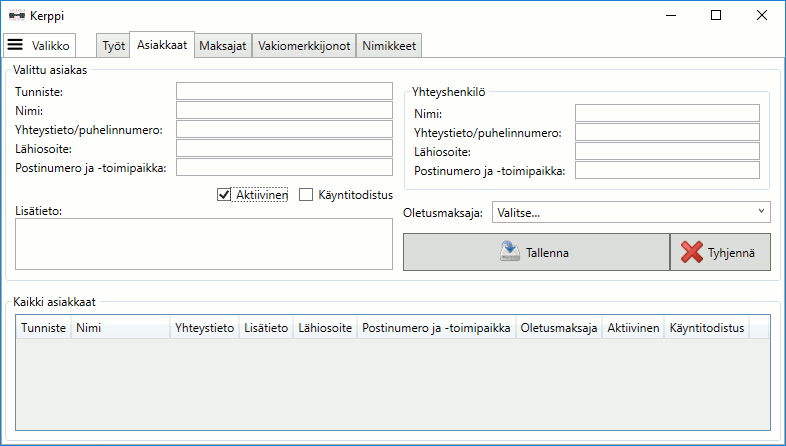
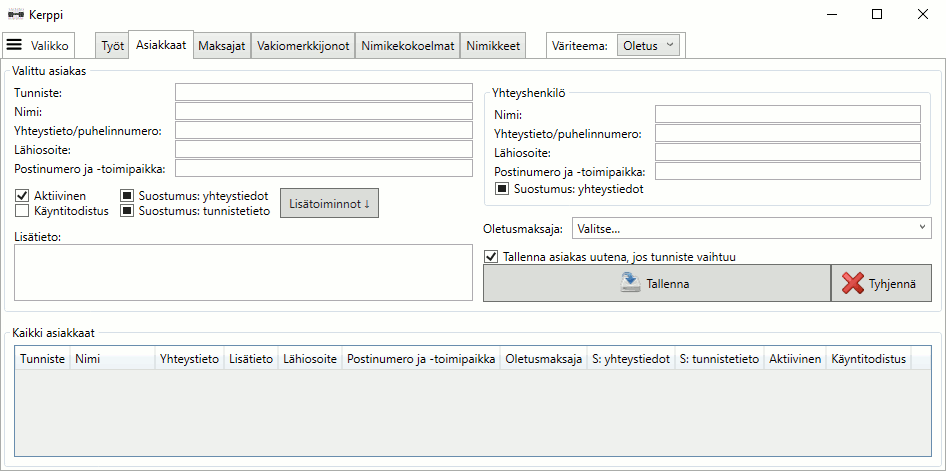
Add contact person consent data. Update screenshot.

Changed region(s): [[0.0, 0.0, 1.0, 1.0], [0.8855, 0.0, 1.0, 0.0583]]

diff --git a/Kerppi/Views/Clients.xaml b/Kerppi/Views/Clients.xaml
@@ -54,7 +54,7 @@
                     <TextBlock Grid.Row="2" Text="Yhteystieto/puhelinnumero:"/>
                     <TextBlock Grid.Row="3" Text="Lähiosoite:"/>
                     <TextBlock Grid.Row="4" Text="Postinumero ja -toimipaikka:"/>
-                    <StackPanel Grid.Row="5" Grid.ColumnSpan="3" Orientation="Horizontal" Margin="0,10,0,0">
+                    <StackPanel Grid.Row="5" Grid.ColumnSpan="3" Orientation="Horizontal" Margin="0,10">
                         <Grid>
                             <Grid.RowDefinitions>
                                 <RowDefinition/>
@@ -125,6 +125,7 @@
                             <TextBox Grid.Row="1" Grid.Column="2" Text="{Binding Path=ContactPersonContactInfo}"/>
                             <TextBox Grid.Row="2" Grid.Column="2" Text="{Binding Path=ContactPersonPostalAddress}"/>
                             <TextBox Grid.Row="3" Grid.Column="2" Text="{Binding Path=ContactPersonPostalCode}"/>
+                            <CheckBox Grid.Row="4" Grid.Column="0" Grid.ColumnSpan="3" Content="_Suostumus: yhteystiedot" IsThreeState="True" IsChecked="{Binding Path=ConsentContactPerson}"/>
                         </Grid>
                     </GroupBox>
                     <DockPanel Margin="0,10,0,0">

diff --git a/Kerppi/DataModel/Client.cs b/Kerppi/DataModel/Client.cs
@@ -61,6 +61,11 @@ namespace Kerppi.DataModel
         /// </summary>
         public bool? ConsentIdInfo { get; set; }
         /// <summary>
+        /// Has the contact person consented to using their contact information.
+        /// Corresponds to Name, PostalAddress, PostalCode and ContactInfo.
+        /// </summary>
+        public bool? ConsentContactPerson { get; set; }
+        /// <summary>
         /// The restricted flag is for the GDPR article 18.
         /// </summary>
         public bool Restricted { get; set; }
@@ -88,6 +93,7 @@ namespace Kerppi.DataModel
             ContactPersonContactInfo = null;
             ConsentContactInfo = null;
             ConsentIdInfo = null;
+            ConsentContactPerson = null;
             Restricted = false;
         }
 
@@ -112,6 +118,7 @@ namespace Kerppi.DataModel
                 ContactPersonContactInfo = ContactPersonContactInfo,
                 ConsentContactInfo =  ConsentContactInfo,
                 ConsentIdInfo = ConsentIdInfo,
+                ConsentContactPerson = ConsentContactPerson,
                 Restricted = Restricted
         };
             return copy;
@@ -259,6 +266,7 @@ namespace Kerppi.DataModel
                 ContactPersonContactInfo TEXT,
                 ConsentContactInfo INTEGER DEFAULT NULL,
                 ConsentIdInfo INTEGER DEFAULT NULL,
+                ConsentContactPerson INTEGER DEFAULT NULL,
                 Restricted INTEGER NOT NULL DEFAULT 0,
                 FOREIGN KEY (DefaultPayerContactId) REFERENCES contacts
                 );";

diff --git a/Kerppi/DataModel/DataSubjectData.cs b/Kerppi/DataModel/DataSubjectData.cs
@@ -69,7 +69,8 @@ namespace Kerppi.DataModel
                         PostalAddress = client.ContactPersonPostalAddress,
                         PostalCode = client.ContactPersonPostalCode
                     },
-                    ClientName = client.Name
+                    ClientName = client.Name,
+                    ConsentContactInfo = client.ConsentContactPerson
                 };
                 return;
             }
